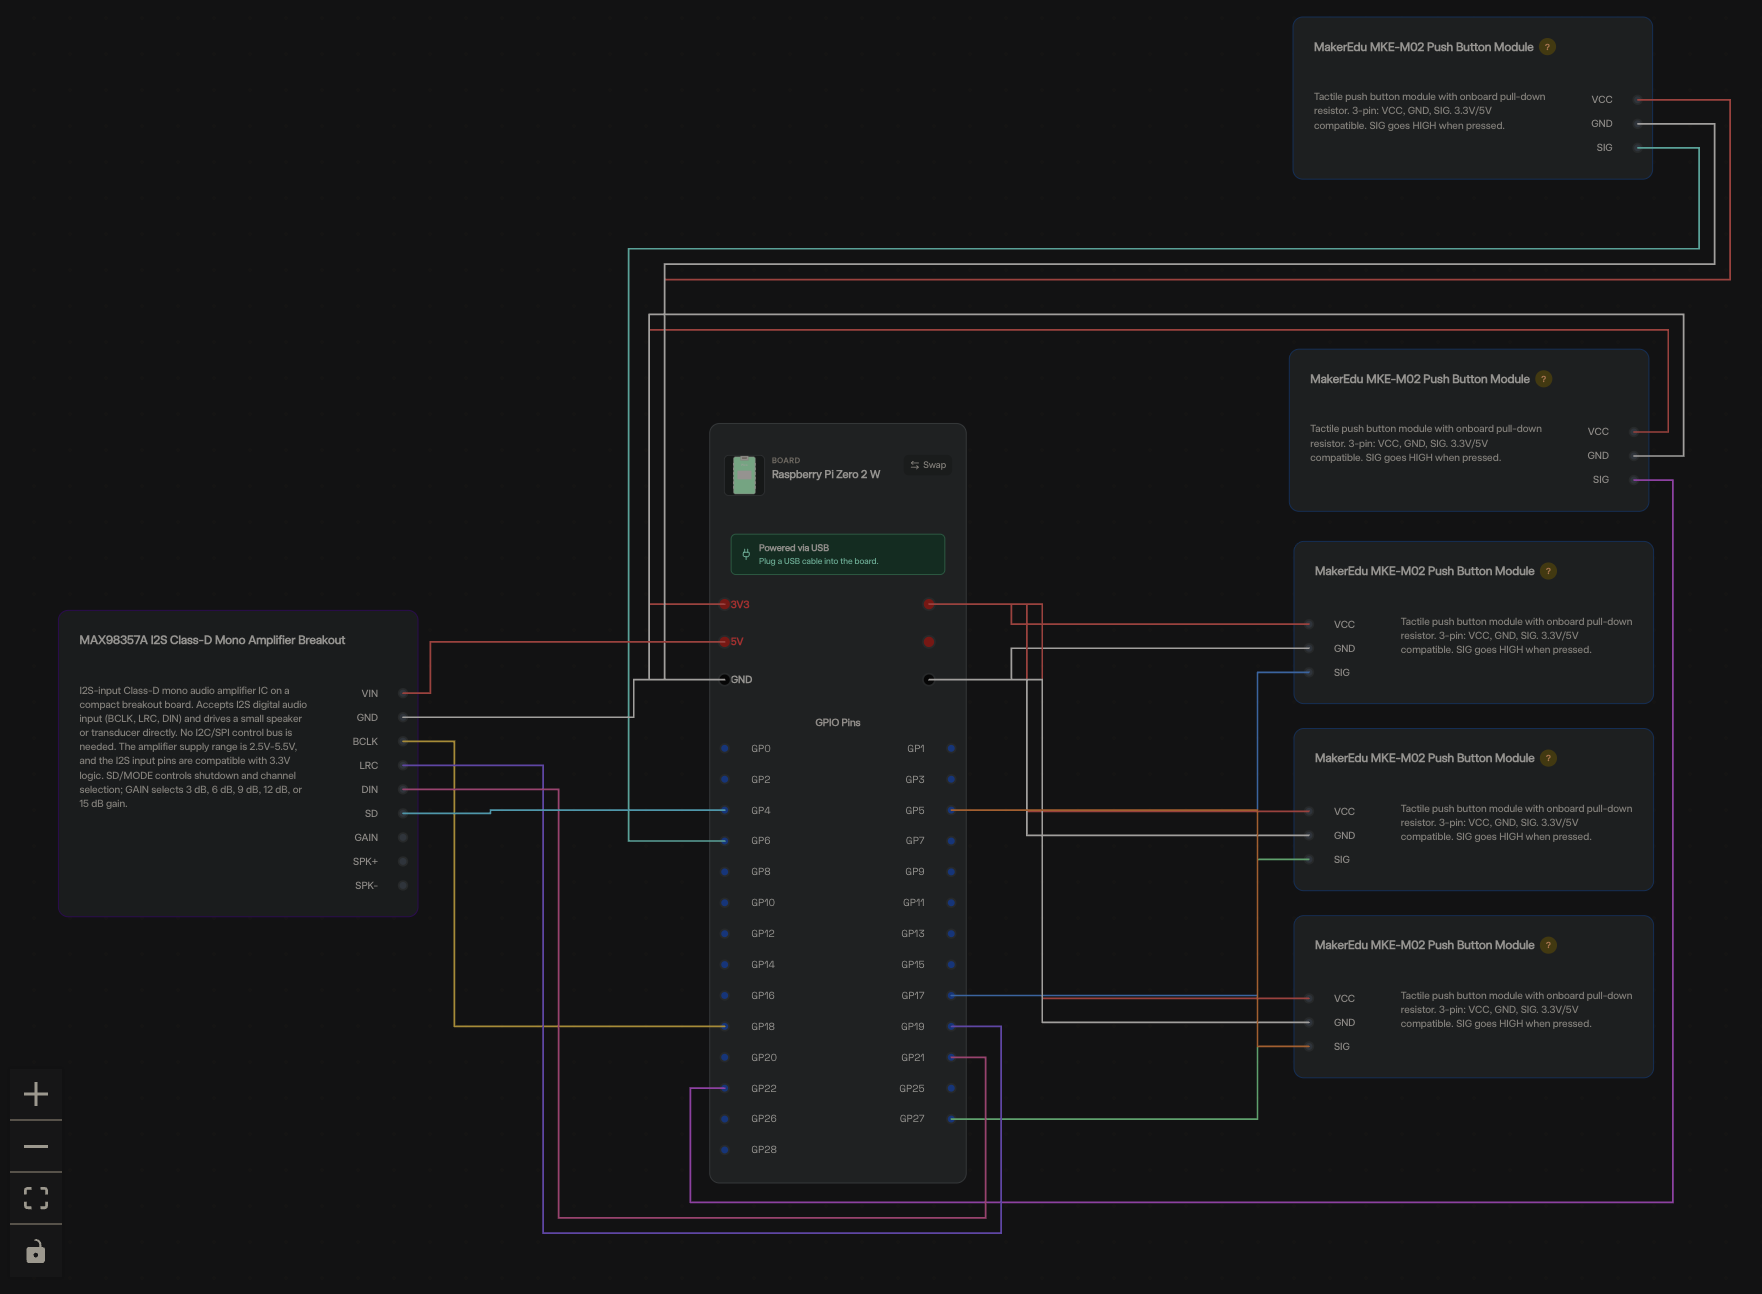
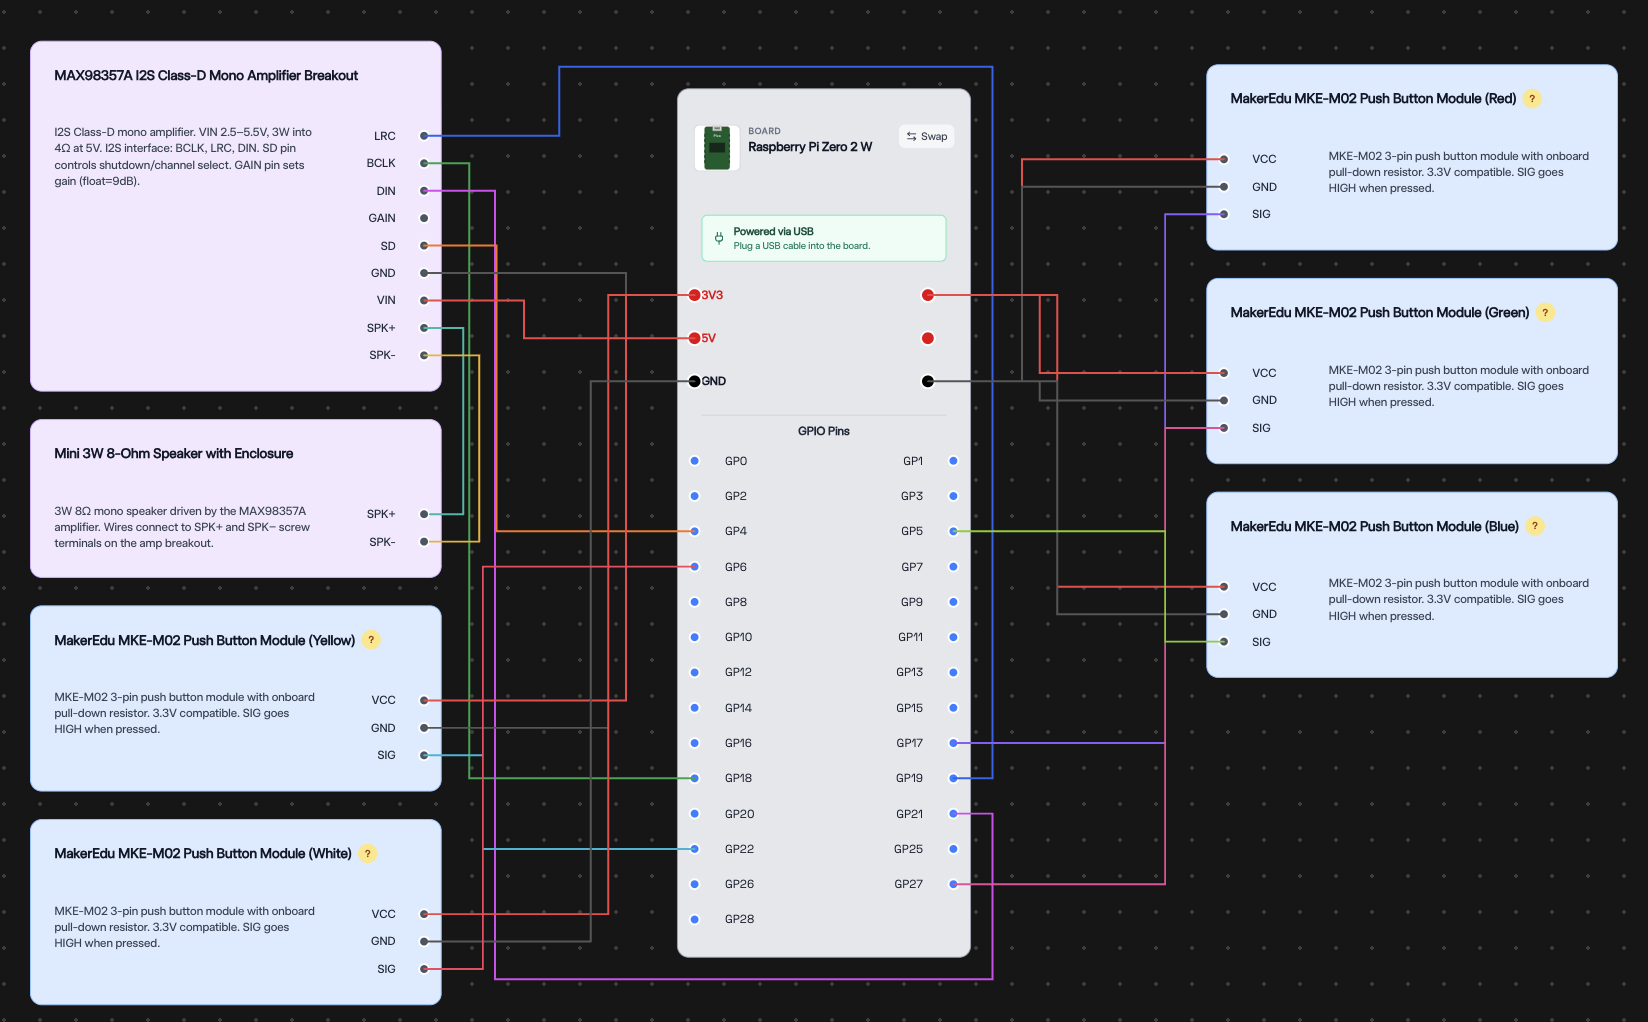
docs: consolidate hardware wiring diagrams and update assembly guide
- Replace max98357a_wiring.svg and pi-zero-GPIO.png with updated pi-zero-wiring.png
- Reorder MAX98357A wiring list to match diagram, note GAIN left empty
- Check off GPIO runtime end-to-end validation in tasks.md
- Ignore CLAUDE.local.md

Claude-Session: https://claude.ai/code/session_012vQz5q5rJzbb7cBxGHAP5a

diff --git a/docs/hardware/hardware-assembly.md b/docs/hardware/hardware-assembly.md
@@ -54,12 +54,13 @@ Insert a microSD card flashed with Raspberry Pi OS Lite. Power the Pi via the PW
 
 Place the MAX98357A breakout on the breadboard. Wire it to the Pi's 40-pin header using jumper wires:
 
-- **VIN** → Pi physical pin 2 (5V)
-- **GND** → Pi physical pin 6 (GND)
-- **BCLK** → Pi physical pin 12 (BCM18)
 - **LRC** → Pi physical pin 35 (BCM19)
+- **BCLK** → Pi physical pin 12 (BCM18)
 - **DIN** → Pi physical pin 40 (BCM21)
+- **GAIN** → empty
 - **SD** → Pi physical pin 7 (BCM4)
+- **GND** → Pi physical pin 6 (GND)
+- **VIN** → Pi physical pin 2 (5V)
 
 **Components:**
 - MAX98357A I2S Class-D Mono Amplifier Breakout

diff --git a/docs/tasks.md b/docs/tasks.md
@@ -7,7 +7,7 @@ This file tracks only active next work, ordered by product impact and implementa
 ## Next
 
 - [x] Validate the current runtime and admin service on Raspberry Pi Zero 2 W target hardware, including install bundle, Caddy HTTPS access, same-origin admin UI, active content preview URLs under `/api/pi/v1/`, and boot-time service behavior.
-- [ ] Validate the new `tcube-pi.service` GPIO runtime end to end on target hardware: fresh install, reboot, GPIO17 button press to speaker audio, admin UI remap taking effect live, Pomodoro 1+2+4 chord, and installer idempotence on re-run.
+- [x] Validate the new `tcube-pi.service` GPIO runtime end to end on target hardware: fresh install, reboot, GPIO17 button press to speaker audio, admin UI remap taking effect live, Pomodoro 1+2+4 chord, and installer idempotence on re-run.
 - [x] Validate MAX98357A I2S audio output from the Rust runtime on the Pi Zero 2 W (rodio through the `ALSA_CARD=MAX98357A` default), then run `just measure-pi-admin` with the admin service under load to confirm button-to-audio latency remains within the product target.
 - [ ] Implement LED output for the five RGB buttons, including normal button feedback, inactive/disabled feedback, setup/error feedback, and the mandatory microphone-active indicator before any mic capture work ships.
 - [ ] Wire Learning stats and Run curation only after local API contracts exist, keeping disabled UI actions visually distinct until the backend is real.